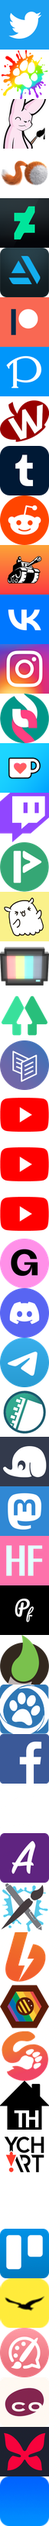
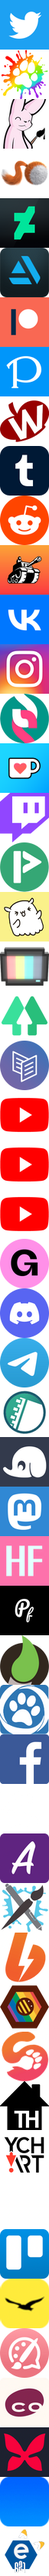
Add e621 to local sync

diff --git a/app/jobs/update_from_e621_post_job.rb b/app/jobs/update_from_e621_post_job.rb
@@ -1,0 +1,44 @@
+# frozen_string_literal: true
+
+class UpdateFromE621PostJob < ApplicationJob
+  queue_as :e621_sync
+
+  VALID_EXTENSIONS = %w[png jpg].freeze
+  def perform(_artist_url, post)
+    sub = SubmissionFile.find_by_md5(post.dig("file", "md5")) # rubocop:disable Rails/DynamicFindBy
+    create_e6_post(sub, post) if sub.present?
+    return unless VALID_EXTENSIONS.include?(post.dig("file", "ext"))
+
+    results = IqdbProxy.query_url(post.dig("sample", "url"))
+
+    results.each do |res|
+      next unless res[:score] > 90
+
+      sub = res[:submission_file]
+      sub.e6_posts.destroy_all
+
+      post_entry = create_e6_post(sub, post)
+
+      # Check if there are entries which were previously added
+      # that are an exact visual match to this newly added exact match
+      if post_entry.is_exact_match
+        sub.existing_matches(post["id"], is_exact_match: false).find_each do |existing_match|
+          existing_match.update(is_exact_match: true)
+        end
+      end
+    end
+  end
+
+  def create_e6_post(submission, post)
+    submission.e6_posts.create(
+      post_id: post["id"],
+      post_width: post["file"]["width"],
+      post_height: post["file"]["height"],
+      post_size: post["file"]["size"],
+      post_is_deleted: post["flags"]["deleted"],
+      post_json: post,
+      similarity_score: post["score"]["total"],
+      is_exact_match: submission.md5 == post["file"]["md5"] || submission.existing_matches(post["id"], is_exact_match: true).any?,
+    )
+  end
+end

diff --git a/db/schema.rb b/db/schema.rb
@@ -10,7 +10,7 @@
 #
 # It's strongly recommended that you check this file into your version control system.
 
-ActiveRecord::Schema[7.1].define(version: 2023_12_12_234448) do
+ActiveRecord::Schema[7.1].define(version: 2023_12_16_045313) do
   # These are extensions that must be enabled in order to support this database
   enable_extension "pgcrypto"
   enable_extension "plpgsql"
@@ -67,6 +67,7 @@ ActiveRecord::Schema[7.1].define(version: 2023_12_12_234448) do
     t.text "api_identifier"
     t.integer "site_type", null: false
     t.jsonb "scraper_status", default: {}, null: false
+    t.integer "post_count"
     t.index "site_type, lower(url_identifier)", name: "index_artist_urls_on_site_and_url_identifier", unique: true
     t.index ["artist_id"], name: "index_artist_urls_on_artist_id"
     t.index ["site_type", "api_identifier"], name: "index_site_type_on_api_identifier", unique: true
@@ -78,7 +79,6 @@ ActiveRecord::Schema[7.1].define(version: 2023_12_12_234448) do
     t.datetime "created_at", null: false
     t.datetime "updated_at", null: false
     t.boolean "is_commissioner", default: false, null: false
-    t.string "e621_tag"
     t.index "lower(name)", name: "index_artists_on_lower_name", unique: true
   end
 

diff --git a/app/logical/e6_api_client.rb b/app/logical/e6_api_client.rb
@@ -14,6 +14,22 @@ module E6ApiClient
     client.get("/posts/#{id}.json").raise_for_status.json["post"]
   end
 
+  def get_posts(tags, page: 1, limit: 320)
+    tags = [tags] unless tags.is_a?(Array)
+    client.get("/posts.json?tags=#{tags.join('%20')}&page=#{page}&limit=#{limit}").raise_for_status.json["posts"]
+  end
+
+  def get_all_posts(tags)
+    fetch = ->(page) {
+      d = get_posts(tags, page: page)
+      if d.length == 320
+        d += fetch.call(page + 1)
+      end
+      d
+    }
+    fetch.call(1)
+  end
+
   private
 
   def client

diff --git a/app/models/artist.rb b/app/models/artist.rb
@@ -67,7 +67,6 @@ class Artist < ApplicationRecord
 
   def formatted_name
     return "#{name} (Commissioner)" if is_commissioner?
-    return "#{name} (#{e621_tag})" if e621_tag.present?
 
     name
   end
@@ -84,5 +83,14 @@ class Artist < ApplicationRecord
         q.order(id: :desc)
       end
     end
+  end
+
+  def e621_tag
+    # noinspection RubyRedundantSafeNavigation
+    e621_url&.url_identifier
+  end
+
+  def e621_url
+    artist_urls.find_by(site_type: "e621")
   end
 end

diff --git a/app/logical/job_stats.rb b/app/logical/job_stats.rb
@@ -20,6 +20,17 @@ class JobStats
     @scraping_queued ||= stats_queued("scraping", proc)
   end
 
+  def e621_sync_queued
+    proc = ->(ids) {
+      res = {}
+      ids.each do |id|
+        res[id] = (res[id] || 0) + 1
+      end
+      res
+    }
+    @e621_sync_queued ||= stats_queued("e621_sync", proc)
+  end
+
   def scraping_now
     @scraping_now ||= GoodJob::JobsFilter.new(state: "running", queue_name: "scraping").records.map { |job| extract_model_id(job) }
   end

diff --git a/app/jobs/sync_from_e621_job.rb b/app/jobs/sync_from_e621_job.rb
@@ -1,0 +1,14 @@
+# frozen_string_literal: true
+
+class SyncFromE621Job < ApplicationJob
+  def perform(artist)
+    raise StandardError, "Artist does not have e621 tag" if artist.e621_tag.blank?
+
+    posts = E6ApiClient.get_all_posts(artist.e621_tag)
+    url = artist.e621_url
+    url.update!(post_count: posts.length, last_scraped_at: Time.current)
+    posts.each do |post|
+      UpdateFromE621PostJob.perform_later(url, post)
+    end
+  end
+end

diff --git a/app/controllers/artists_controller.rb b/app/controllers/artists_controller.rb
@@ -53,10 +53,14 @@ class ArtistsController < ApplicationController
     Artist.find_each(&:enqueue_all_urls)
   end
 
+  def sync_e621
+    SyncFromE621Job.perform_later(Artist.find(params[:id]))
+  end
+
   private
 
   def artist_params
-    permitted_params = %i[name url_string is_commissioner e621_tag]
+    permitted_params = %i[name url_string is_commissioner]
 
     params.fetch(:artist, {}).permit(permitted_params)
   end

diff --git a/app/models/submission_file.rb b/app/models/submission_file.rb
@@ -316,4 +316,8 @@ class SubmissionFile < ApplicationRecord
     tags << artist.e621_tag if artist.e621_tag.present?
     @upload_url ||= "https://e621.net/uploads/new?#{file_url}sources=#{sources}&#{description}&tags=#{tags.join('+')}"
   end
+
+  def self.find_by_md5(md5)
+    SubmissionFile.joins(original_attachment: :blob).find_by(active_storage_blobs: { checksum: Base64.encode64([md5].pack("H*"))[..-2] })
+  end
 end

diff --git a/app/models/artist_url.rb b/app/models/artist_url.rb
@@ -33,7 +33,7 @@ class ArtistUrl < ApplicationRecord
     afterdark artconomy artfight boosty
     buzzly furrystation toyhouse ychart
     manual trello itaku artfol
-    cohost inkblot bluesky
+    cohost inkblot bluesky e621
   ].map.with_index { |v, index| [v, index] }.to_h
 
   def self.search(params)

diff --git a/config/routes.rb b/config/routes.rb
@@ -10,6 +10,7 @@ Rails.application.routes.draw do
   resources :artists, only: %i[index new create show destroy edit update] do
     member do
       post :enqueue_all_urls
+      post :sync_e621
     end
     collection do
       post :enqueue_everything

diff --git a/app/helpers/application_helper.rb b/app/helpers/application_helper.rb
@@ -19,7 +19,7 @@ module ApplicationHelper
   end
 
   def link_to_external(text, url, **)
-    link_to text, url, **, rel: "nofollow noopener noreferrer"
+    link_to(text, url, **, rel: "nofollow noopener noreferrer")
   end
 
   def fake_link(text, **)

diff --git a/db/migrate/20231216045313_add_artist_urls_post_count.rb b/db/migrate/20231216045313_add_artist_urls_post_count.rb
@@ -1,0 +1,7 @@
+# frozen_string_literal: true
+
+class AddArtistUrlsPostCount < ActiveRecord::Migration[7.1]
+  def change
+    add_column :artist_urls, :post_count, :integer, null: true
+  end
+end
